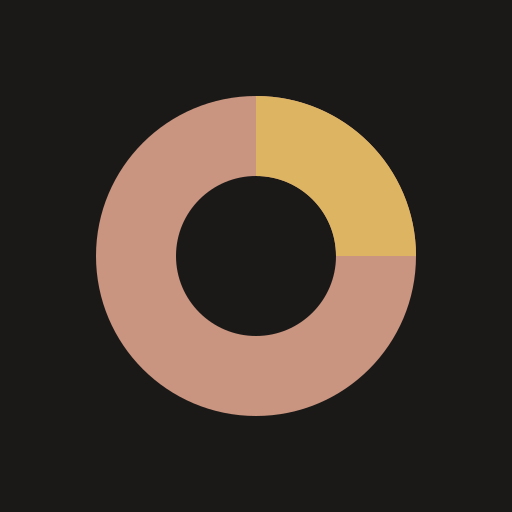
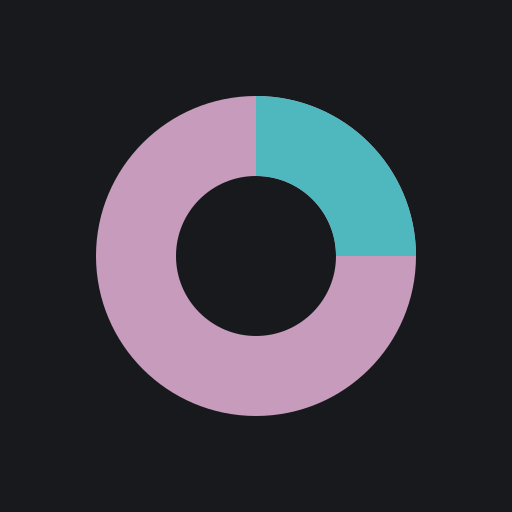
feat(web): ✨ restyle theme after odoo 20
Replace the cocoa palette with plum primary, teal accent and pale cool
neutrals in tokens, the Ant Design theme and the logo assets. Adds the
launcher tile and dotted backdrop classes.

Claude-Session: https://claude.ai/code/session_01V41fyr3eFLdwpMUto4ZBuy

Changed region(s): [[0.1875, 0.1875, 0.8125, 0.8125]]

diff --git a/apps/web/app/theme/tokens.css b/apps/web/app/theme/tokens.css
@@ -3,70 +3,84 @@
 :root {
   color-scheme: light;
 
-  --omed-brand: #9a5b48;
-  --omed-brand-accent: #cfa04a;
-  --omed-primary: #9a5b48;
-  --omed-primary-hover: #874d3c;
-  --omed-primary-active: #74402f;
+  --omed-brand: #714b67;
+  --omed-brand-accent: #017e84;
+  --omed-primary: #714b67;
+  --omed-primary-hover: #5f3e56;
+  --omed-primary-active: #4d3246;
   --omed-on-primary: #ffffff;
-  --omed-tint: rgba(154, 91, 72, 0.1);
-  --omed-tint-text: #6e3a2b;
+  --omed-tint: rgba(113, 75, 103, 0.1);
+  --omed-tint-text: #5a3a51;
 
-  --omed-bg: #fbf9f6;
+  --omed-bg: #f9fafb;
   --omed-surface: #ffffff;
-  --omed-surface-muted: #f4f1ec;
-  --omed-text: #2f2b26;
-  --omed-text-secondary: #736b61;
-  --omed-text-muted: #8c8479;
-  --omed-border: #e9e4dc;
-  --omed-border-soft: #f0ebe3;
+  --omed-surface-muted: #f3f4f6;
+  --omed-text: #1f2430;
+  --omed-text-secondary: #5f636f;
+  --omed-text-muted: #8a8d97;
+  --omed-border: #e1e3e8;
+  --omed-border-soft: #edeef1;
 
   /* Fill colors (dots, icons, borders). Use the -text variants for text. */
-  --omed-success: #5f8767;
-  --omed-warning: #cfa04a;
-  --omed-danger: #bc4b44;
-  --omed-info: #3f727a;
-  --omed-success-text: #476b4f;
-  --omed-warning-text: #8a6420;
-  --omed-danger-text: #bc4b44;
-  --omed-info-text: #3f727a;
+  --omed-success: #2e9e6b;
+  --omed-warning: #e3a008;
+  --omed-danger: #c8423a;
+  --omed-info: #017e84;
+  --omed-success-text: #1f7a4f;
+  --omed-warning-text: #8a5a00;
+  --omed-danger-text: #b3342d;
+  --omed-info-text: #017e84;
+
+  /* App icon tiles on the launcher. Cycled by module order. */
+  --omed-app-1: #714b67;
+  --omed-app-2: #017e84;
+  --omed-app-3: #d9604f;
+  --omed-on-app: #ffffff;
 
   --omed-radius-sm: 4px;
   --omed-radius: 6px;
   --omed-radius-lg: 8px;
-  --omed-header-height: 40px;
-  --omed-sider-width: 140px;
+  --omed-radius-xl: 16px;
+  --omed-header-height: 46px;
+  --omed-sider-width: 200px;
+  --omed-sider-width-collapsed: 52px;
+  --omed-chatter-width: 340px;
 }
 
 :root[data-theme="dark"] {
   color-scheme: dark;
 
-  --omed-brand: #c99480;
-  --omed-brand-accent: #ddb462;
-  --omed-primary: #c99480;
-  --omed-primary-hover: #d6a793;
-  --omed-primary-active: #b98068;
-  --omed-on-primary: #1b1917;
-  --omed-tint: rgba(201, 148, 128, 0.16);
-  --omed-tint-text: #eacbbe;
+  --omed-brand: #c79bbb;
+  --omed-brand-accent: #4fb8be;
+  --omed-primary: #c79bbb;
+  --omed-primary-hover: #d6b0cb;
+  --omed-primary-active: #b889ab;
+  --omed-on-primary: #1b1620;
+  --omed-tint: rgba(199, 155, 187, 0.16);
+  --omed-tint-text: #e8d0e1;
 
-  --omed-bg: #1b1917;
-  --omed-surface: #242120;
-  --omed-surface-muted: #2e2a28;
-  --omed-text: #ece8e3;
-  --omed-text-secondary: #a09890;
-  --omed-text-muted: #7c746c;
-  --omed-border: #3d3835;
-  --omed-border-soft: #322e2b;
+  --omed-bg: #17191d;
+  --omed-surface: #1f2227;
+  --omed-surface-muted: #2a2d34;
+  --omed-text: #e8e9ec;
+  --omed-text-secondary: #a0a4ae;
+  --omed-text-muted: #7b7f8a;
+  --omed-border: #363a42;
+  --omed-border-soft: #2b2e35;
 
-  --omed-success: #82ad8a;
-  --omed-warning: #ddb462;
-  --omed-danger: #de7570;
-  --omed-info: #7fb1b6;
-  --omed-success-text: #82ad8a;
-  --omed-warning-text: #ddb462;
-  --omed-danger-text: #de7570;
-  --omed-info-text: #7fb1b6;
+  --omed-success: #6cc596;
+  --omed-warning: #e8b454;
+  --omed-danger: #ef7b72;
+  --omed-info: #5cc1c6;
+  --omed-success-text: #6cc596;
+  --omed-warning-text: #e8b454;
+  --omed-danger-text: #ef7b72;
+  --omed-info-text: #5cc1c6;
+
+  --omed-app-1: #7c5473;
+  --omed-app-2: #1e8f95;
+  --omed-app-3: #c95545;
+  --omed-on-app: #ffffff;
 }
 
 *,
@@ -113,4 +127,56 @@ a {
 .num {
   font-variant-numeric: tabular-nums;
   text-align: right;
+}
+
+/* Launcher backdrop: a pale dotted grid, the only decorative element. */
+.home-backdrop {
+  background-color: var(--omed-bg);
+  background-image: radial-gradient(var(--omed-border) 1px, transparent 1px);
+  background-size: 18px 18px;
+}
+
+/* App tile on the launcher: a rounded colored icon with its label below. */
+.app-tile {
+  display: flex;
+  flex-direction: column;
+  align-items: center;
+  gap: 8px;
+  padding: 12px 8px;
+  border-radius: var(--omed-radius-lg);
+  color: var(--omed-text);
+  text-align: center;
+}
+
+.app-tile:hover {
+  background: var(--omed-surface);
+  color: var(--omed-text);
+}
+
+.app-tile:focus-visible {
+  outline: 2px solid var(--omed-primary);
+  outline-offset: 2px;
+}
+
+.app-tile__icon {
+  display: flex;
+  align-items: center;
+  justify-content: center;
+  width: 64px;
+  height: 64px;
+  font-size: 30px;
+  color: var(--omed-on-app);
+  border-radius: var(--omed-radius-xl);
+}
+
+.app-tile--1 .app-tile__icon {
+  background: var(--omed-app-1);
+}
+
+.app-tile--2 .app-tile__icon {
+  background: var(--omed-app-2);
+}
+
+.app-tile--3 .app-tile__icon {
+  background: var(--omed-app-3);
 }

diff --git a/apps/web/app/theme/antd.ts b/apps/web/app/theme/antd.ts
@@ -5,52 +5,52 @@ export type ThemeMode = "light" | "dark";
 // Hex values live here (and in tokens.css) only. Components use tokens.
 const palette = {
   light: {
-    primary: "#9A5B48",
-    primaryHover: "#874D3C",
-    primaryActive: "#74402F",
+    primary: "#714B67",
+    primaryHover: "#5F3E56",
+    primaryActive: "#4D3246",
     onPrimary: "#FFFFFF",
-    bg: "#FBF9F6",
+    bg: "#F9FAFB",
     surface: "#FFFFFF",
-    surfaceMuted: "#F4F1EC",
-    text: "#2F2B26",
-    textSecondary: "#736B61",
-    textMuted: "#8C8479",
-    success: "#5F8767",
-    successText: "#476B4F",
-    warning: "#CFA04A",
-    warningText: "#8A6420",
-    danger: "#BC4B44",
-    dangerText: "#BC4B44",
-    info: "#3F727A",
-    infoText: "#3F727A",
-    tint: "rgba(154,91,72,0.10)",
-    tintText: "#6E3A2B",
-    border: "#E9E4DC",
-    borderSoft: "#F0EBE3",
+    surfaceMuted: "#F3F4F6",
+    text: "#1F2430",
+    textSecondary: "#5F636F",
+    textMuted: "#8A8D97",
+    success: "#2E9E6B",
+    successText: "#1F7A4F",
+    warning: "#E3A008",
+    warningText: "#8A5A00",
+    danger: "#C8423A",
+    dangerText: "#B3342D",
+    info: "#017E84",
+    infoText: "#017E84",
+    tint: "rgba(113,75,103,0.10)",
+    tintText: "#5A3A51",
+    border: "#E1E3E8",
+    borderSoft: "#EDEEF1",
   },
   dark: {
-    primary: "#C99480",
-    primaryHover: "#D6A793",
-    primaryActive: "#B98068",
-    onPrimary: "#1B1917",
-    bg: "#1B1917",
-    surface: "#242120",
-    surfaceMuted: "#2E2A28",
-    text: "#ECE8E3",
-    textSecondary: "#A09890",
-    textMuted: "#7C746C",
-    success: "#82AD8A",
-    successText: "#82AD8A",
-    warning: "#DDB462",
-    warningText: "#DDB462",
-    danger: "#DE7570",
-    dangerText: "#DE7570",
-    info: "#7FB1B6",
-    infoText: "#7FB1B6",
-    tint: "rgba(201,148,128,0.16)",
-    tintText: "#EACBBE",
-    border: "#3D3835",
-    borderSoft: "#322E2B",
+    primary: "#C79BBB",
+    primaryHover: "#D6B0CB",
+    primaryActive: "#B889AB",
+    onPrimary: "#1B1620",
+    bg: "#17191D",
+    surface: "#1F2227",
+    surfaceMuted: "#2A2D34",
+    text: "#E8E9EC",
+    textSecondary: "#A0A4AE",
+    textMuted: "#7B7F8A",
+    success: "#6CC596",
+    successText: "#6CC596",
+    warning: "#E8B454",
+    warningText: "#E8B454",
+    danger: "#EF7B72",
+    dangerText: "#EF7B72",
+    info: "#5CC1C6",
+    infoText: "#5CC1C6",
+    tint: "rgba(199,155,187,0.16)",
+    tintText: "#E8D0E1",
+    border: "#363A42",
+    borderSoft: "#2B2E35",
   },
 } as const;
 
@@ -105,7 +105,7 @@ export function getAntdTheme(mode: ThemeMode): ThemeConfig {
         bodyBg: "transparent",
         headerBg: "transparent",
         siderBg: "transparent",
-        headerHeight: 40,
+        headerHeight: 46,
         headerPadding: "0 12px",
       },
       Menu: {
@@ -114,7 +114,7 @@ export function getAntdTheme(mode: ThemeMode): ThemeConfig {
         itemSelectedColor: p.primary,
         itemHoverBg: p.surfaceMuted,
         activeBarBorderWidth: 0,
-        itemHeight: 26,
+        itemHeight: 30,
       },
       Table: {
         headerBg: "transparent",
@@ -135,6 +135,17 @@ export function getAntdTheme(mode: ThemeMode): ThemeConfig {
       Tag: {
         defaultBg: p.tint,
         defaultColor: p.tintText,
+      },
+      Segmented: {
+        itemSelectedBg: p.surface,
+        itemSelectedColor: p.primary,
+        trackBg: p.surfaceMuted,
+      },
+      Breadcrumb: {
+        itemColor: p.textSecondary,
+        lastItemColor: p.text,
+        linkColor: p.primary,
+        linkHoverColor: p.primaryHover,
       },
       Modal: { contentBg: p.surface, headerBg: p.surface },
       Drawer: { colorBgElevated: p.surface },
